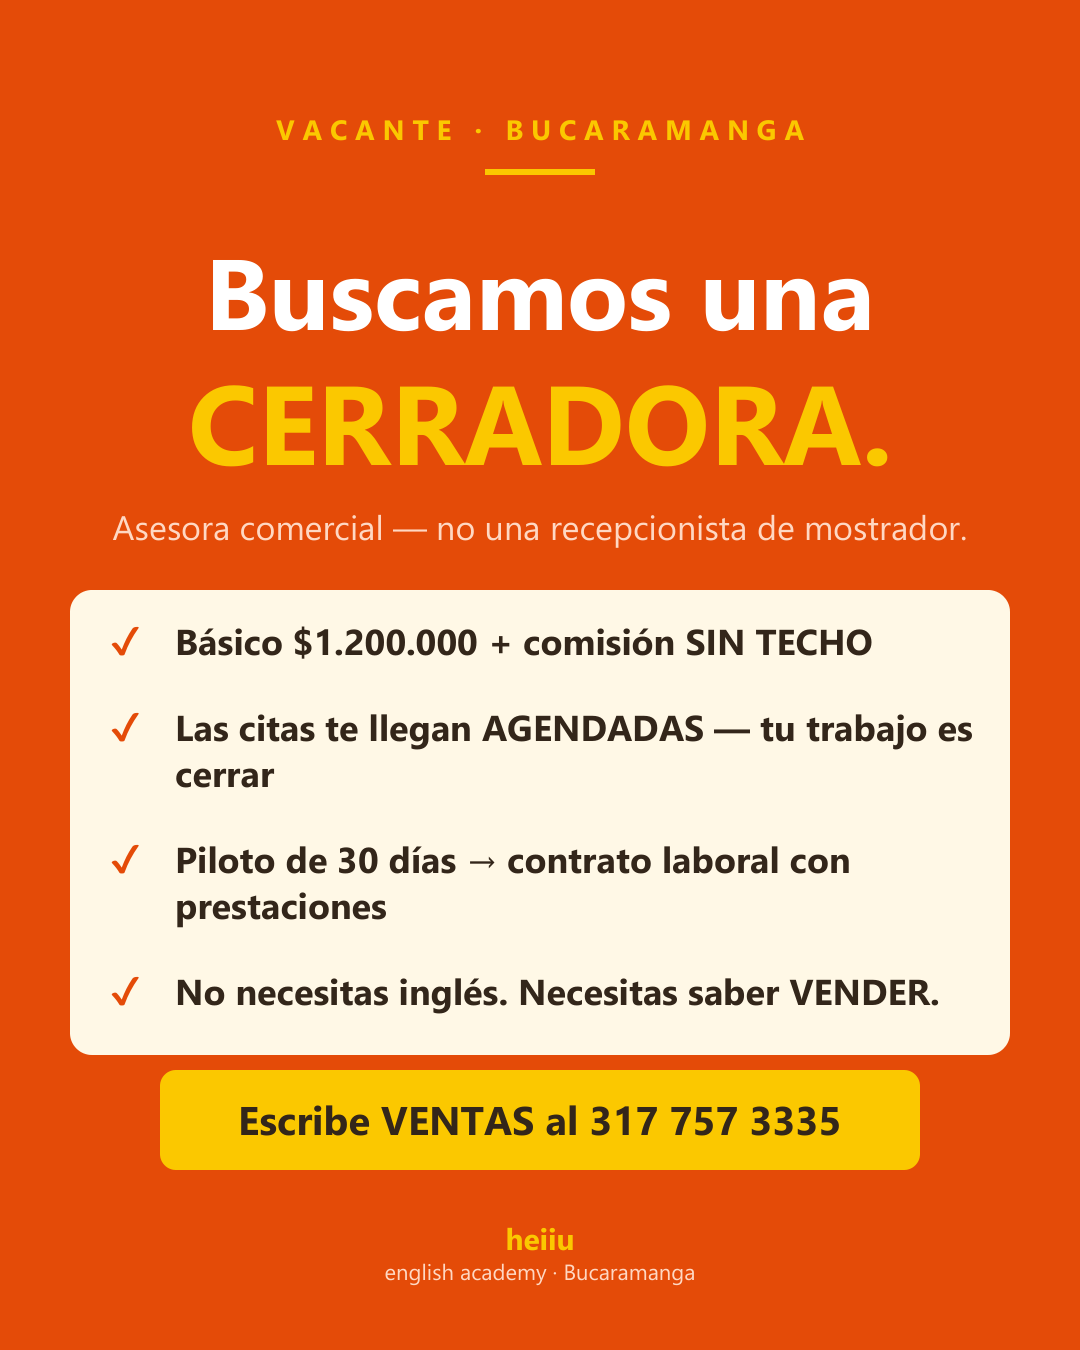
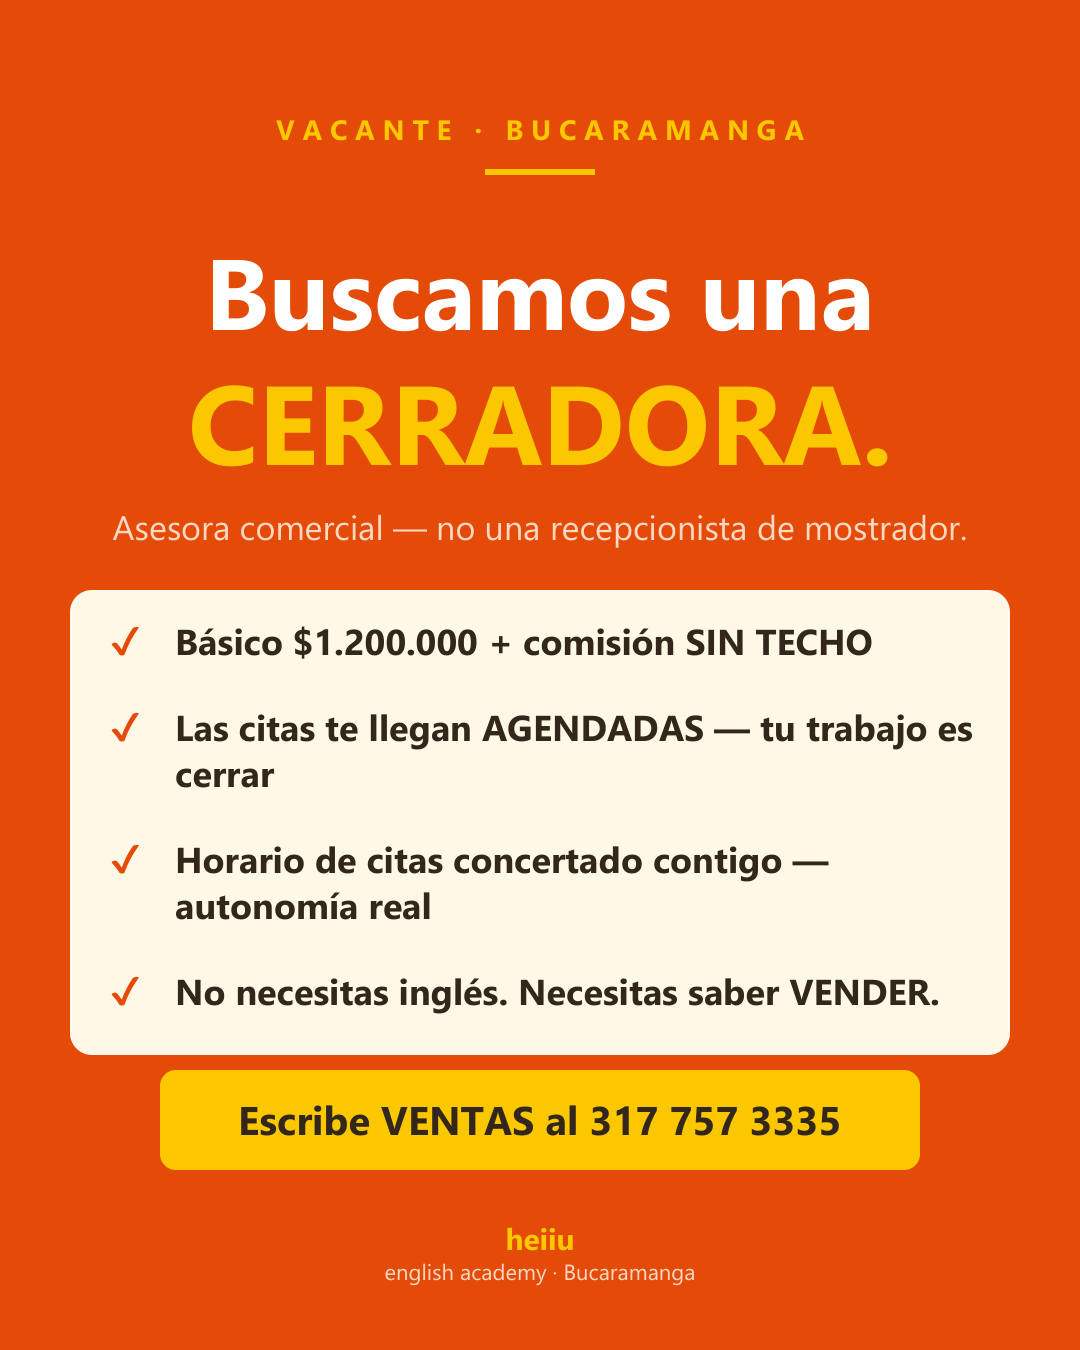
Carlos: reposicionamiento al dolor (deuda como puerta caliente, saldo mentiroso, anti-consultor, IA absorbida como herramienta) - doc + landing v21

Changed region(s): [[0.1528, 0.6222, 0.7944, 0.6844]]

diff --git a/recursos/comercial/CFO/landing_carlos_cfo.html b/recursos/comercial/CFO/landing_carlos_cfo.html
@@ -333,8 +333,8 @@
 <div class="hero">
   <div class="wrap">
     <span class="eyebrow">Carlos Edo Remolina · Director Financiero Externo</span>
-    <h1>¿Cuánta plata le quedó <em>LIBRE</em> el mes pasado?</h1>
-    <p class="sub">No es cuánto vendió — es cuánto le quedó. Si tiene que buscar la respuesta, haga el test: le toma un minuto.</p>
+    <h1>Tener plata en la cuenta no significa que su empresa <em>esté bien</em>.</h1>
+    <p class="sub">Nadie quiebra de un día para otro: las empresas se desangran durante meses mientras el saldo se ve sano. Haga el test — en un minuto sabe si la suya es una de ellas.</p>
     <a class="btn btn-oro" href="#test">Hacer el test de los 7 &ldquo;NO&rdquo;</a>
   </div>
 </div>
@@ -376,6 +376,15 @@
   <blockquote class="cita">&ldquo;Analizo su empresa como la visualizaría un fondo de inversión: con los mismos criterios que usan bancos e inversionistas para decir que sí.&rdquo;</blockquote>
 </section>
 
+<section class="wrap rev">
+  <span class="eyebrow">Léalo antes de firmar deuda nueva</span>
+  <h2>¿Está a punto de pedir un crédito?</h2>
+  <p>La mayoría de los empresarios que me buscan llegan por lo mismo: necesitan recursos — para un proyecto, un activo, o para reorganizar deudas. Y cuando abrimos los números, en muchos casos aparece lo mismo: <b>el crédito nuevo iba a tapar un hueco que seguiría creciendo.</b></p>
+  <p style="margin-top:14px"><b>Más deuda sin diagnóstico no es financiación: es desfinanciación.</b> Se siente como oxígeno el primer mes — y en seis, la cuota nueva es un hueco más grande que el que tapó.</p>
+  <p style="margin-top:14px">Antes de firmar, una radiografía: sabrá si su empresa necesita esa plata o necesita dejar de perderla, cuánta deuda aguanta su caja real, y cómo presentarse al banco para que el crédito — si aplica — salga en mejores términos.</p>
+  <blockquote class="cita">&ldquo;Sin ventas no hay negocio. Sin caja, tampoco — y la caja muere en silencio.&rdquo;</blockquote>
+</section>
+
 <section class="wrap rev" id="radiografia">
   <div class="oferta">
     <span class="sello">Sin costo · 5 cupos al mes</span>
@@ -387,6 +396,7 @@
         <p>Usted entrega sus documentos, yo hago el análisis completo y le entrego, en 3 páginas y sin tecnicismos, dónde se le escapa la plata (con montos), cuánto debe vender para no perder, cómo ve un banco su empresa hoy, y los 3 primeros movimientos para corregirlo.</p>
         <p style="margin-top:14px"><span class="garantia">Lo único que le pido a cambio es su testimonio honesto.</span> Solo después de entregarle su análisis le presento — si le interesan — las opciones de acompañamiento. Usted decide, sin ninguna obligación.</p>
         <p style="margin-top:12px; font-size:14px; color:var(--suave)">Cada radiografía me toma días de trabajo — por eso son solo 5 cupos por mes, en orden de llegada.</p>
+        <p style="margin-top:12px"><b>No soy un consultor ni le vendo un curso: soy el área financiera que su empresa no tiene</b> — un equipo con más de 20 años de experiencia que entiende su negocio a profundidad. Porque un financiero que no comprende su negocio lo deja en lo mismo.</p>
       </div>
       <div class="doc-zona" aria-hidden="true">
         <div class="doc">
@@ -491,6 +501,7 @@
     </table>
   </div>
   <p>Su contador hace su trabajo. Pero clasificar con criterio financiero es otra profesión: algo tan simple como un gasto registrado como costo le distorsiona el margen — y cambia por completo lo que un banco ve de su empresa.</p>
+  <p style="margin-top:14px">Y lo mismo aplica adentro: <b>en la mayoría de las pymes, las decisiones financieras las está tomando el área administrativa.</b> Administrar no es finanzas: decidir cuánta deuda aguanta la empresa, leer el flujo de caja o medir el impacto tributario de un movimiento es un oficio distinto — y cuando lo hace quien no es del oficio, la empresa lo paga sin que nadie lo note a tiempo.</p>
 </section>
 
 <section class="wrap rev">
@@ -574,6 +585,10 @@
       <p>Esa sería una excelente noticia para usted: se queda con la validación de que sus números están sanos, su punto de equilibrio y su plan de 90 días. Hacemos el testimonio por el trabajo, y listo.</p>
     </details>
     <details>
+      <summary>¿No puedo hacer esto gratis con la inteligencia artificial?</summary>
+      <p>Inténtelo — en serio. Métale sus números al prompt de moda. Van a pasar dos cosas: o le da respuestas genéricas (la IA no puede leer su contabilidad real, ni saber que un gasto quedó clasificado como costo), o le da un susto. En los dos casos el paso siguiente es el mismo: alguien que interprete, que entienda SU negocio y que responda por la recomendación. Yo también uso IA — la diferencia es que sé qué preguntarle, con qué datos alimentarla y qué hacer con la respuesta. La IA informa; el criterio decide.</p>
+    </details>
+    <details>
       <summary>¿Mi información queda protegida?</summary>
       <p>Confidencialidad total — es la regla número uno de este trabajo. Sus números no se comparten con nadie, y en los materiales públicos jamás aparecen datos de clientes.</p>
     </details>
@@ -611,7 +626,7 @@
 </div>
 
 <footer class="wrap">
-  Carlos Edo Remolina · Director Financiero Externo · WhatsApp @ceremolina · ceremolina@gmail.com
+  Carlos Edo Remolina · Director Financiero Externo · WhatsApp +57 310 274 8487 · ceremolina@gmail.com
 </footer>
 
 <div class="barra" id="barra">

diff --git a/recursos/comercial/CFO/REPOSICIONAMIENTO_DOLOR.md b/recursos/comercial/CFO/REPOSICIONAMIENTO_DOLOR.md
@@ -1,0 +1,56 @@
+# REPOSICIONAMIENTO CARLOS — DE "CLARIDAD" A DOLOR COMPRABLE
+### 17/08/2026 · Basado en entrevista a Diana/Carlos + análisis de competencia IA (prompts virales de "radiografía financiera") · Tono definido: DOCTOR SERIO (diagnóstico grave sin culpar — el fiscal que regaña no es sostenible en la llamada)
+
+---
+
+## 1. EL DIAGNÓSTICO DEL PROBLEMA DE VENTA
+
+- **"Claridad financiera" no duele.** El empírico con $50M en la cuenta se siente bien — el saldo es su analgésico. Venderle "claridad" es venderle vitaminas a quien no se siente enfermo.
+- **"Consultor" es mala palabra.** Los empresarios no quieren más consultores ni más cursos (dato de la reunión de Diana). El posicionamiento no puede oler a consultoría.
+- **La IA comoditizó la palabra "radiografía".** Un influencer regala el prompt ("actúa como mi director financiero") con 882 compartidos. Competir contra respuestas gratis es perder.
+
+## 2. EL HALLAZGO (de la boca de Carlos — 21 empresas)
+
+El motivo REAL por el que lo contratan: **búsqueda de recursos — crédito para apalancar proyectos o reperfilar deuda.** Y lo que Carlos encuentra al abrir los papeles: el crédito nuevo iba a tapar un hueco que sigue creciendo — **están desfinanciando la empresa con más deuda sin saberlo.** Causa raíz: las decisiones financieras las toma **el área administrativa**, que no es área financiera (no puede decidir endeudamiento, ni manejar flujo de caja, ni medir impacto tributario).
+
+**→ EL DOLOR COMPRABLE ES LA DEUDA, no la claridad.** El empresario que va a pedir plata YA está en movimiento, con urgencia y fecha. Ahí se le intercepta.
+
+## 3. LAS TRES PUERTAS DE DOLOR (en orden de temperatura)
+
+1. **"Voy a pedir un crédito"** (LA caliente — el que busca plata ya está comprando algo): *"Antes de firmar deuda nueva, sepa si está financiando crecimiento o agrandando un hueco. Más deuda sin diagnóstico no es financiación: es desfinanciación."*
+2. **"Vendo pero no alcanza"** (crisis de caja): la nómina como milagro mensual.
+3. **"Tengo plata, estoy bien"** (el dormido — para contenido, no para cierre): *"El saldo es el peor indicador de salud de una empresa. Nadie quiebra de un día para otro: se desangran durante meses mientras el saldo se ve sano."* (Hero del PDF, en versión doctor: hechos que asustan, no regaño.)
+
+## 4. EL NUEVO LENGUAJE
+
+| Se muere | Nace |
+|---|---|
+| "Consultor" / "asesoría" / "consultoría" | **"El área financiera que su empresa no tiene"** — un equipo financiero con 20+ años que entiende SU negocio |
+| "Claridad financiera" como promesa central | **"Sepa si su empresa se está desangrando"** / "deje de tapar huecos con deuda" |
+| "Usted decidió no enterarse" (culpa — versión fiscal del PDF) | **"El saldo le está mintiendo — y no es su culpa: nadie le enseñó a leerlo"** (doctor) |
+| Competir con la IA / ignorarla | **"La IA es mi herramienta también"** (ver §5) |
+| "Sin ventas no hay negocio" (analogía interna) | **"Sin ventas no hay negocio. Sin caja, tampoco — y la caja muere en silencio."** |
+
+**La frase del equipo (textual de Carlos, pulida):** *"Un financiero que no comprende su negocio lo deja en lo mismo. Nosotros somos un equipo financiero con alta experiencia que entiende su negocio a profundidad — no un consultor de paso."*
+
+## 5. LA JUGADA CON LA IA (posición: mostrarla como herramienta propia)
+
+No pelear, no ignorar — **absorberla**:
+> *"¿Vio el prompt de moda de la 'radiografía financiera' con IA? Úselo. En serio. Van a pasar dos cosas: o le da respuestas genéricas (porque la IA no puede leer su contabilidad real, ni saber que sus sillas están clasificadas como costo), o le va a dar un susto. En los dos casos el siguiente paso es el mismo: alguien que interprete, que entienda SU negocio y que responda por la recomendación. Yo también uso IA — la diferencia es que sé qué preguntarle, con qué datos alimentarla y qué hacer con la respuesta. La IA informa. El criterio decide. Y sin interpretación, usted termina preguntándole el flujo de caja a la administradora — que es exactamente el error que lo tiene así."*
+
+Esto convierte cada post viral de prompts en un generador de leads para Carlos: la IA asusta, Carlos convierte el susto.
+
+## 6. SOFTWARE / INVERSIÓN (evaluación honesta — idea aún por construir)
+
+Dos formas concretas de "meterle programación", en orden recomendado:
+1. **AHORA (sin inversión): el diagnóstico pre-crédito online.** Evolucionar el test de los 7 NO hacia una calculadora simple: el empresario mete 5-6 cifras → sale un semáforo "¿está listo para deuda nueva?" + agenda. Automatiza la puerta de entrada, alimenta la base, y es demo del futuro producto. Se construye con lo que ya tenemos (la landing).
+2. **DESPUÉS (con tracción): el tablero como SaaS.** El dashboard mensual que Carlos ya produce (tipo Wiregrass), conectado a QuickBooks, como producto suscripción para pymes. ESO sí es invertible — pero un inversionista serio pide tracción: N clientes pagando el servicio + el caso de uso probado. **Regla: primero 10-15 clientes del servicio con el tablero manual, luego el pitch de producto.** Buscar plata con una idea sin clientes = regalar la empresa barata.
+
+**Pendiente Diana/Carlos:** darle forma a la idea en una sesión aparte cuando haya 2-3 radiografías entregadas — con casos reales el pitch se escribe solo.
+
+## 7. LO QUE CAMBIA EN CADA PIEZA (aplicado 17/08)
+
+- **Landing:** hero nuevo ("Tener plata en la cuenta no significa que su empresa esté bien"), sección nueva "¿Va a pedir un crédito?" (puerta 1), párrafo del área administrativa en "Son trabajos distintos", FAQ nueva sobre la IA, línea "no soy un consultor — soy el área financiera que su empresa no tiene" en la oferta, WhatsApp real (+57 310 274 8487) en contacto.
+- **Plan de medios IG:** las próximas tarjetas/carruseles cargan las puertas 1 y 3 (deuda y saldo-mentiroso) — el banco de frases se renueva con este lenguaje.
+- **Test de los 7 NO:** se mantiene — ya pregunta por crédito (P3) y estructura contable (P7); es coherente con el giro.
+- **Tono en todo:** doctor serio. Se elimina el lenguaje de culpa ("usted decidió") del borrador PDF; se conservan sus hechos duros.
